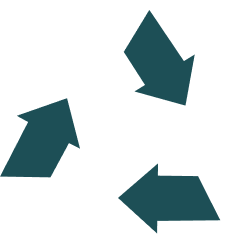
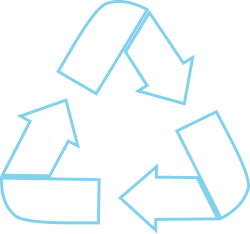
ui fixes

diff --git a/lib/pages/home/home.dart b/lib/pages/home/home.dart
@@ -150,8 +150,8 @@ class _HomeScreenState extends State<HomeScreen> {
         },
         child: PaperCard(
           borderRadius: 8,
-          backgroundColor: const Color(0xFF3D6A7D),
-          borderColor: ColorName.accent,
+          backgroundColor: Colors.teal.withOpacity(0.3),
+          borderColor: Colors.teal,
           child: SizedBox(
             height: 160,
             width: double.infinity,
@@ -165,7 +165,7 @@ class _HomeScreenState extends State<HomeScreen> {
                     opacity: 0.8,
                     child: ImageWidget(
                       imageLocation: Assets.images.recycleBg.path,
-                      color: ColorName.accent,
+                      color: Colors.teal,
                     ),
                   ),
                 ),
@@ -176,7 +176,7 @@ class _HomeScreenState extends State<HomeScreen> {
                   child: Text(
                     'Recyclable',
                     style: GoogleFonts.rubikDoodleShadow().copyWith(
-                      color: ColorName.accent,
+                      color: Colors.teal,
                       fontSize: 40,
                     ),
                   ),

diff --git a/lib/data/levels_data.dart b/lib/data/levels_data.dart
@@ -43,6 +43,6 @@ final recyclableLevel = LevelDataModel(
   title: 'Recycling',
   concept: 'You will learn how to filter dirt water.',
   levelNumber: 4,
-  color: ColorName.accent,
+  color: Colors.teal,
   items: recycleLevel,
 );
